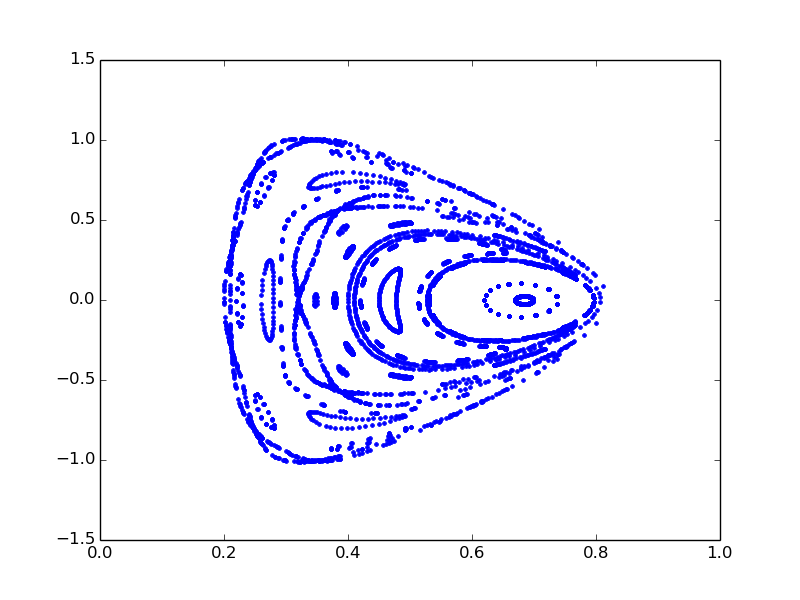
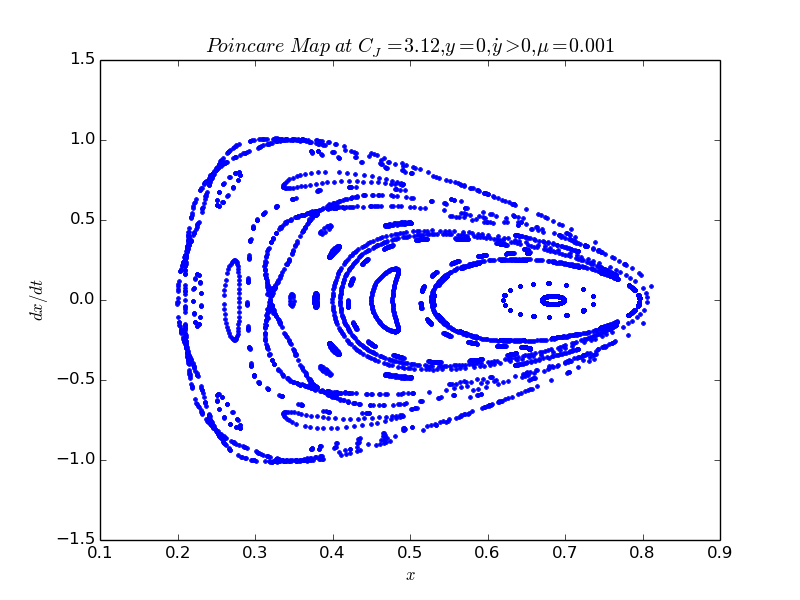
update the picture

diff --git a/homework/chap3/PoincareMapRTB.py b/homework/chap3/PoincareMapRTB.py
@@ -21,6 +21,9 @@ sec2 = np.array(sec[3])
 
 fig = plt.figure()
 plt.plot(sec1, sec2, '.')
-plt.xlim(0,1)
+plt.title('$Poincare\ Map\ at\ C_J=3.12,y=0,\dot{y}>0,\mu=0.001$')
+plt.xlim(0.1,0.9)
+plt.xlabel('$x$')
+plt.ylabel('$dx/dt$')
 plt.savefig('CRTBsection.png')
 plt.close()
